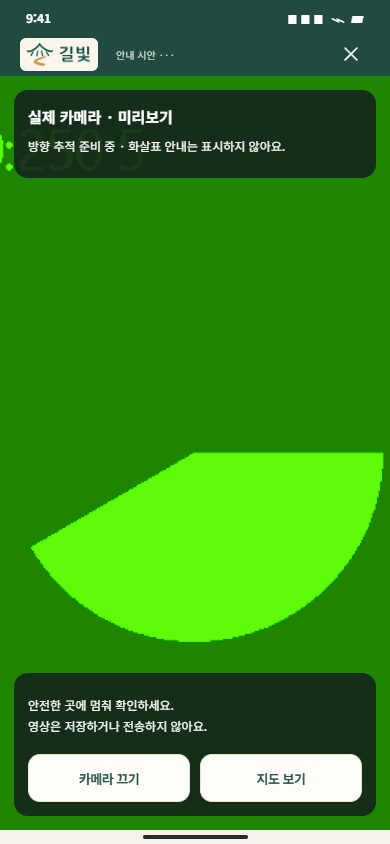
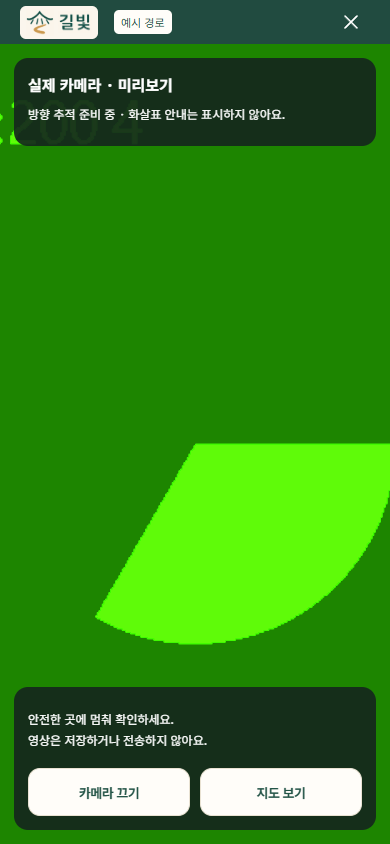
기본 배포를 앱 화면으로 전환하고 디자인 검토 레이아웃 분리

Changed region(s): [[0.0, 0.7393, 1.0, 1.0], [0.0, 0.0, 1.0, 0.2156], [0.0923, 0.5237, 1.0, 0.7393]]

diff --git a/src/main.tsx b/src/main.tsx
@@ -16,6 +16,7 @@ const places = [
 
 function App() {
  const [mode,setMode]=useState<'demo'|'live'>(new URLSearchParams(location.search).get('mode')==='live'?'live':'demo');
+ const review=new URLSearchParams(location.search).get('preview')==='1';
  const initial = new URLSearchParams(location.search).get('screen');
  const [screen,setScreen]=useState<Screen>(initial && initial in screenNames ? initial as Screen:'home');
  const [activeGuide,setActiveGuide]=useState<{place:typeof places[number];screen:'map'|'camera'|'recheck'}|null>(initial==='map'||initial==='camera'||initial==='recheck'?{place:places[0],screen:initial}:null);
@@ -48,14 +49,14 @@ function App() {
  function showNotice(text:string){setNotice(text);timers.current.push(setTimeout(()=>setNotice(''),2200));}
  function retry(){setChecking(true);timers.current.push(setTimeout(()=>{setChecking(false);go('camera');},900));}
  function switchMode(next:'demo'|'live') { const url=new URL(location.href);if(next==='live'){url.searchParams.set('mode','live');url.searchParams.delete('screen');}else{url.searchParams.delete('mode');url.searchParams.set('screen','home');setScreen('home');}history.replaceState(null,'',url);setMode(next); }
- if(mode==='live')return <LiveNavigation onDemo={()=>switchMode('demo')}/>;
+ if(mode==='live')return <LiveNavigation onDemo={()=>switchMode('demo')} review={review}/>;
 
- return <div className="studio">
+ return <div className={`studio ${review?'':'app-shell'}`}>
   <aside className="studio-intro"><span className="eyebrow">GILBIT / DESIGN STUDY 01</span><h1>낯선 길에도,<br/>마음 놓이는 한 걸음.</h1><p>한옥의 차분함을 담은<br/>나만의 도보 길잡이, 길빛.</p><div className="studio-rule"/><span className="studio-note">클릭하며 둘러보는 디자인 시안<br/>지도·경로는 예시이며 카메라는 선택해 켤 수 있어요.</span><div className="swatches"><i/><i/><i/><i/></div><span className="edition">HANJI · PINE · LIGHT</span></aside>
   <div className={`phone ${camera?'camera-phone':''}`}>
    <div className="status-bar" aria-hidden="true"><span>9:41</span><span className="status-icons">▮▮▮ <span>⌁</span> ▰</span></div>
-   {!navigating && <header className={`app-header ${screen==='home'?'home-header':''}`}>{screen==='home'?<button className="brand-menu" aria-label="시안 확인 메뉴" aria-expanded={menu} onClick={()=>setMenu(!menu)}><Brand/></button>:<button className="icon-button" aria-label="뒤로 가기" onClick={()=>go(screen==='search'?'home':screen==='route'?'search':'home')}><Icon name="back"/></button>}{screen!=='home'&&<span className="header-title">{screenNames[screen]}</span>}{screen==='home'?<button className="icon-button home-bell" aria-label="알림" onClick={()=>showNotice('새로운 알림이 없어요.')}><Icon name="bell" size={23}/></button>:<button className="sample-badge" aria-label="시안 확인 메뉴" aria-expanded={menu} onClick={()=>setMenu(!menu)}>디자인 시안 ···</button>}</header>}
-   {navigating && <div className="navigation-top"><span><Brand compact/> <button className="nav-demo" aria-label="시안 확인 메뉴" aria-expanded={menu} onClick={()=>setMenu(!menu)}>안내 시안 ···</button></span><button className="icon-button" aria-label="안내 화면 닫기" onClick={()=>go('home')}><Icon name="close"/></button></div>}
+   {!navigating && <header className={`app-header ${screen==='home'?'home-header':''}`}>{screen==='home'?<button className="brand-menu" aria-label={review?"시안 확인 메뉴":"길빛 홈"} aria-expanded={review?menu:undefined} onClick={()=>review?setMenu(!menu):go('home')}><Brand/></button>:<button className="icon-button" aria-label="뒤로 가기" onClick={()=>go(screen==='search'?'home':screen==='route'?'search':'home')}><Icon name="back"/></button>}{screen!=='home'&&<span className="header-title">{screenNames[screen]}</span>}{screen==='home'?<button className="icon-button home-bell" aria-label="알림" onClick={()=>showNotice('새로운 알림이 없어요.')}><Icon name="bell" size={23}/></button>:review?<button className="sample-badge" aria-label="시안 확인 메뉴" aria-expanded={menu} onClick={()=>setMenu(!menu)}>디자인 시안 ···</button>:<span className="example-label">예시 경로</span>}</header>}
+   {navigating && <div className="navigation-top"><span><Brand compact/> {review?<button className="nav-demo" aria-label="시안 확인 메뉴" aria-expanded={menu} onClick={()=>setMenu(!menu)}>안내 시안 ···</button>:<span className="example-label">예시 경로</span>}</span><button className="icon-button" aria-label="안내 화면 닫기" onClick={()=>go('home')}><Icon name="close"/></button></div>}
    <main ref={content} className={`app-content screen-${screen}`} key={screen}>
     {screen==='home' && <>
      <section className="home-hero"><Lattice/><Lattice right/><h2>어디로<br/>걸어갈까요<span>?</span></h2><form className="search-form" onSubmit={e=>{e.preventDefault();search(query);}}><button className="home-search-submit" aria-label="검색" type="submit"><Icon name="search" size={23}/></button><input aria-label="목적지 검색" placeholder="장소나 주소를 검색하세요" value={query} onChange={e=>setQuery(e.target.value)}/></form><Hanok/></section>
@@ -76,8 +77,8 @@ function App() {
    <div className="phone-bottom" aria-hidden="true"><span/></div>
   </div>
   <aside className="studio-controls"><span className="eyebrow">PROTOTYPE INDEX</span><h2>한 걸음씩,<br/>둘러보세요.</h2><nav aria-label="시안 화면 선택">{(Object.keys(screenNames) as Screen[]).map((s,i)=><button key={s} className={screen===s?'active':''} aria-current={screen===s?'page':undefined} onClick={()=>go(s)}><span>0{i+1}</span>{screenNames[s]}<Icon name="arrow" size={16}/></button>)}</nav><p>장소·지도·거리 사진은 예시입니다.<br/>카메라는 켜기 버튼을 누를 때만 권한을 요청해요.</p></aside>
-  <button ref={trigger} className="preview-toggle" aria-label="시안 확인 메뉴" aria-expanded={menu} onClick={()=>setMenu(!menu)}><Icon name="dots" size={19}/><span>시안 보기</span></button>
-  {menu&&<div className="preview-popover"><div className="popover-heading"><strong>시안 확인 메뉴</strong><button aria-label="시안 메뉴 닫기" className="icon-button" onClick={()=>{setMenu(false);trigger.current?.focus();}}><Icon name="close" size={19}/></button></div><p>실제 이동 없이 화면을 살펴보세요.</p>{(Object.keys(screenNames) as Screen[]).map((s,i)=><button key={s} onClick={()=>go(s)}><span>0{i+1}</span>{screenNames[s]}<Icon name="chevron" size={16}/></button>)}<label className="dark-control"><input type="checkbox" checked={dark} onChange={e=>setDark(e.target.checked)}/>카메라 어두운 배경 확인</label></div>}
+  {review&&<button ref={trigger} className="preview-toggle" aria-label="시안 확인 메뉴" aria-expanded={menu} onClick={()=>setMenu(!menu)}><Icon name="dots" size={19}/><span>시안 보기</span></button>}
+  {review&&menu&&<div className="preview-popover"><div className="popover-heading"><strong>시안 확인 메뉴</strong><button aria-label="시안 메뉴 닫기" className="icon-button" onClick={()=>{setMenu(false);trigger.current?.focus();}}><Icon name="close" size={19}/></button></div><p>실제 이동 없이 화면을 살펴보세요.</p>{(Object.keys(screenNames) as Screen[]).map((s,i)=><button key={s} onClick={()=>go(s)}><span>0{i+1}</span>{screenNames[s]}<Icon name="chevron" size={16}/></button>)}<label className="dark-control"><input type="checkbox" checked={dark} onChange={e=>setDark(e.target.checked)}/>카메라 어두운 배경 확인</label></div>}
   <dialog ref={dialog} onCancel={()=>setEnding(false)} onClick={e=>{if(e.target===e.currentTarget)setEnding(false);}}><div className="dialog-inner"><span className="dialog-icon"><Icon name="compass" size={28}/></span><h2>길 안내를 마칠까요?</h2><p>안내를 종료하고 처음으로 돌아가요.</p><button className="primary" onClick={()=>{setEnding(false);setActiveGuide(null);go('home');}}>안내 종료하기</button><button className="secondary" onClick={()=>setEnding(false)}>계속 안내받기</button></div></dialog>
  </div>;
 }

diff --git a/src/navigation/LiveNavigation.tsx b/src/navigation/LiveNavigation.tsx
@@ -6,8 +6,8 @@ import { findWalkingRoute, getUserPosition, navigationRequest, searchPlaces, typ
 import { WalkingMap } from './WalkingMap';
 
 type Stage='home'|'results'|'route'|'map';
-interface Props {onDemo:()=>void}
-export function LiveNavigation({onDemo}:Props) {
+interface Props {onDemo:()=>void;review?:boolean}
+export function LiveNavigation({onDemo,review=false}:Props) {
  const [stage,setStage]=useState<Stage>('home');
  const [query,setQuery]=useState('');
  const [places,setPlaces]=useState<Place[]>([]);
@@ -91,9 +91,9 @@ export function LiveNavigation({onDemo}:Props) {
  const locationPanel=<section className="live-location"><div className="location-label"><Icon name="locate" size={18}/><strong>출발 위치</strong></div><p>{position?`현재 위치를 확인했어요 · 오차 약 ${Math.round(position.accuracy)}m`:'길찾기를 시작하려면 현재 위치를 확인해 주세요.'}</p><button className="secondary" disabled={locating||routing} onClick={()=>void locate()}><Icon name="locate" size={19}/>{locating?'현재 위치 확인 중…':position?'현재 위치 다시 확인':'현재 위치 확인'}</button>{locationError&&<p className="inline-error" role="alert">{locationError}</p>}</section>;
  const setup=<>{configured===null&&!configError&&<p className="connection-note" role="status">검색 서비스 연결을 확인하고 있어요…</p>}{configured===false&&<div className="connection-note"><strong>실제 장소 검색을 준비 중이에요.</strong><p>지금은 디자인 시안으로 화면을 둘러볼 수 있어요.</p><button className="text-button" onClick={onDemo}>디자인 시안으로 돌아가기</button></div>}{configError&&<div className="connection-note" role="alert"><p>{configError}</p><button className="text-button" onClick={()=>setConfigAttempt(n=>n+1)}>연결 다시 확인</button></div>}</>;
 
- return <div className="studio live-studio"><aside className="studio-intro"><span className="eyebrow">GILBIT / WALKING ROUTE</span><h1>눈앞의 길을,<br/>실제 경로로.</h1><p>장소를 찾고 현재 위치에서<br/>걸어갈 경로를 확인하세요.</p><div className="studio-rule"/><span className="studio-note">현재 위치는 버튼을 눌렀을 때만 확인해요.<br/>경로는 저장하지 않아요.</span><button className="secondary return-demo" onClick={onDemo}>디자인 시안 보기</button></aside><div className="phone live-phone"><header className={`app-header ${stage==='home'?'home-header':''}`}>
+ return <div className={`studio live-studio ${review?'':'app-shell'}`}><aside className="studio-intro"><span className="eyebrow">GILBIT / WALKING ROUTE</span><h1>눈앞의 길을,<br/>실제 경로로.</h1><p>장소를 찾고 현재 위치에서<br/>걸어갈 경로를 확인하세요.</p><div className="studio-rule"/><span className="studio-note">현재 위치는 버튼을 눌렀을 때만 확인해요.<br/>경로는 저장하지 않아요.</span><button className="secondary return-demo" onClick={onDemo}>디자인 시안 보기</button></aside><div className="phone live-phone"><header className={`app-header ${stage==='home'?'home-header':''}`}>
   {stage==='home'?<Brand/>:<><button className="icon-button" aria-label="뒤로 가기" onClick={back}><Icon name="back"/></button><strong className="header-title">{stageTitle}</strong></>}
-  <button className="live-demo-exit" onClick={onDemo}>시안 보기</button>
+  <button className="live-demo-exit" onClick={onDemo}>{review?'시안 보기':'예시 화면'}</button>
  </header><main className={`app-content live-content live-${stage}`} ref={content}>
  {stage==='home'&&<><section className="home-hero"><Lattice/><Lattice right/><h2>어디로<br/>걸어갈까요<span>?</span></h2><form className="search-form" onSubmit={onSubmit}><button className="home-search-submit" type="submit" aria-label="실제 장소 검색" disabled={configured!==true}><Icon name="search" size={23}/></button><input aria-label="실제 목적지 검색" placeholder="장소나 주소를 검색하세요" value={query} maxLength={80} onChange={e=>setQuery(e.target.value)}/></form><Hanok/></section><div className="live-home-body">{setup}{error&&<p className="inline-error" role="alert">{error}</p>}<div className="section-heading"><h3>이런 곳을 찾아보세요</h3></div><div className="suggestions">{['도서관','시청','보건소'].map((q,i)=><button key={q} className="place-tile" disabled={configured!==true} onClick={()=>void submitSearch(q)}><Icon name={['book','building','health'][i]} size={25}/><strong>{q}</strong></button>)}</div>{locationPanel}<p className="live-privacy">위치를 확인하면 이 기기의 좌표를 가져와요.<br/>도보 경로를 찾을 때 출발·도착 위치가 TMAP에 전달돼요.</p></div></>}
  {stage==='results'&&<section className="padded"><form className="search-form" onSubmit={onSubmit}><button type="submit" aria-label="다시 검색"><Icon name="search" size={21}/></button><input aria-label="검색어" value={query} maxLength={80} onChange={e=>setQuery(e.target.value)}/><button type="button" aria-label="검색어 지우기" onClick={()=>{searchAbort.current?.abort();setSearching(false);setQuery('');setPlaces([]);setSearched(false);setError('');}}><Icon name="close" size={18}/></button></form><div className="section-heading live-results-heading"><h3>검색 결과 {searched&&<em>{places.length}</em>}</h3><span>관련도순</span></div><p className="sample-description">TMAP 장소 검색 · 거리는 직선 거리예요.</p>{searching&&<p role="status" className="connection-note">장소를 찾고 있어요…</p>}{error&&<div className="connection-note" role="alert"><p>{error}</p><button className="secondary" onClick={()=>void submitSearch()}>다시 검색</button></div>}<div className="search-results">{places.map(place=><button className="result-card" key={place.id} onClick={()=>choose(place)}><span className="result-icon"><Icon name="pin"/></span><div className="result-copy"><small>{place.category}</small><h3>{place.name}</h3><p>{place.address}</p>{position&&<span>직선 {formatDistance(distanceBetween(position,place))}</span>}</div><Icon name="chevron" size={19}/></button>)}</div>{searched&&!places.length&&!error&&<div className="empty-state"><div className="empty-lattice"><Motif kind="lattice" size={54}/></div><h3>일치하는 장소가 없어요</h3><p>지역명과 장소명을 함께 입력해 보세요.</p></div>}</section>}

diff --git a/tests/browser/app-shell.spec.ts b/tests/browser/app-shell.spec.ts
@@ -1,0 +1,15 @@
+import {test,expect} from '@playwright/test';
+for(const width of [360,430,1440]){
+ test(`${width}px 기본 주소는 검토용 프레임 없이 앱만 표시한다`,async({page})=>{
+  await page.setViewportSize({width,height:900});await page.goto('/');
+  await expect(page.locator('.studio-intro')).not.toBeVisible();await expect(page.locator('.studio-controls')).not.toBeVisible();await expect(page.locator('.status-bar')).not.toBeVisible();await expect(page.locator('.phone-bottom')).not.toBeVisible();await expect(page.getByRole('button',{name:'시안 확인 메뉴'})).toHaveCount(0);
+  const phone=page.locator('.phone');expect(await phone.evaluate(e=>getComputedStyle(e).borderTopWidth)).toBe('0px');expect(await phone.evaluate(e=>getComputedStyle(e).borderRadius)).toBe('0px');
+  const bounds=await phone.boundingBox();expect(bounds?.height).toBe(900);expect(bounds?.width).toBe(Math.min(width,480));
+  await page.screenshot({path:`test-results/app-shell-${width}.png`});
+  await page.goto('/?screen=map');await expect(page.getByText('예시 경로',{exact:true})).toBeVisible();await expect(page.getByRole('button',{name:'안내 화면 닫기'})).toBeVisible();
+  await page.goto('/?mode=live');await expect(page.locator('.studio-intro')).not.toBeVisible();await expect(page.getByRole('button',{name:'예시 화면',exact:true})).toBeVisible();
+ });
+}
+test('검토용 화면은 preview=1에서만 표시한다',async({page})=>{
+ await page.setViewportSize({width:1440,height:1000});await page.goto('/?preview=1');await expect(page.locator('.studio-intro')).toBeVisible();await expect(page.locator('.studio-controls')).toBeVisible();await expect(page.locator('.status-bar')).toBeVisible();await page.getByRole('button',{name:'시안 확인 메뉴'}).first().click();await expect(page.locator('.preview-popover')).toBeVisible();
+});

diff --git a/src/style.css b/src/style.css
@@ -53,3 +53,12 @@ button:focus-visible,a:focus-visible,input:focus-visible{outline-color:var(--tea
 .camera-permission{background:var(--sheet);color:var(--ink);padding:20px;border-radius:16px;flex:none}.camera-permission h2{font-size:18px;line-height:1.6}.camera-permission p{margin:12px 0 18px}.camera-permission .secondary{margin-top:10px}
 .real-camera-controls{display:grid;grid-template-columns:1fr 1fr;gap:10px}.real-camera-controls p{grid-column:1/-1}.real-camera-controls .secondary{font-size:13px;color:var(--pine);min-height:48px}
 .camera-screen:has(.real-camera)>.turn-card,.camera-screen:has(.real-camera)>.direction-arrow,.camera-screen:has(.real-camera)>.camera-bottom{display:none}
+
+/* Default deployment is the app; ?preview=1 opts into the design review shell. */
+.studio.app-shell{height:100dvh;min-height:100dvh;padding:0;gap:0;align-items:stretch;background:var(--paper)}
+.app-shell>.studio-intro,.app-shell>.studio-controls,.app-shell .status-bar,.app-shell .phone-bottom{display:none}
+.app-shell>.phone{width:100%;max-width:480px;height:100dvh;min-height:0;border:0;border-radius:0;box-shadow:none;margin:0 auto;padding:env(safe-area-inset-top) 0 env(safe-area-inset-bottom)}
+.app-shell .app-header{flex-shrink:0}.app-shell .home-header{height:64px}
+.app-shell .example-label{font-size:11px;font-weight:400;color:var(--muted);margin-left:10px;white-space:nowrap}
+.app-shell .navigation-top .example-label{display:inline-block;padding:4px 7px;border-radius:5px;background:var(--sheet);color:var(--pine)}
+.app-shell .home-hero,.app-shell .recent-section,.app-shell .location-section,.app-shell .live-entry,.app-shell .ongoing-guide,.app-shell .home-footer{flex-shrink:0}

diff --git a/docs/issues/2026-11-06-app-shell.md b/docs/issues/2026-11-06-app-shell.md
@@ -1,0 +1,13 @@
+# 배포 화면과 디자인 검토 화면 분리
+
+## 문제
+배포된 PC 화면에서 휴대폰 목업 테두리·고정 시간·양쪽 설명·시안 메뉴까지 보여 앱이 아닌 디자인 발표 화면처럼 보였다.
+
+## 원인
+디자인 시안 제작 단계의 studio 레이아웃을 배포 기본 화면으로 그대로 사용했다. 기능 연결과 배포 준비 과정에서 실제 사용자용 외곽 화면 전환이 누락됐다.
+
+## 해결방법
+기본은 앱 레이아웃으로 표시한다. 휴대폰 목업·가짜 상태 표시·하단 제스처 막대·설명판·검토 메뉴를 숨기고 실제 화면 높이와 safe-area에 맞춘다. 넓은 화면에서는 최대 480px 앱 영역을 중앙에 표시한다. 검토 도구는 ?preview=1일 때만 제공한다. 기본 화면에서도 가상 데이터가 실제 안내로 보이지 않게 예시 경로 표시를 유지한다. 실제 검색 모드에도 같은 외곽 규칙을 적용한다.
+
+## 결과
+빌드·브라우저 테스트 30개 통과 후 같은 주소에 재배포했고 실제 배포 PC/모바일 크기에서 앱 레이아웃과 API HTTP200을 확인했다. 실제 경로·AR 개발 완료를 의미하지 않는다.

diff --git a/docs/deployment.md b/docs/deployment.md
@@ -5,7 +5,7 @@
 - Vercel 프로젝트 gilbit, 팀 sunyoungs-projects-c61fca90, Hobby.
 - 첫 배포는 Vercel 정책에 따라 사용자 승인 후 Production으로 진행했다. 기능 검증용 배포이며 TMAP 키는 설정하지 않는다.
 - 주소: https://gilbit.vercel.app
-- 최종 배포 ID: dpl_Ey3PZhc2pmhz2AhRKeB3inVT1sWr
+- 최종 배포 ID: dpl_C7PDHp94AeLUqS9gek1SgiK8nUVU
 - React/Vite 정적 화면과 /api/navigation 함수를 함께 빌드한다.
 - Node.js는 package.json의 22 이상 25 미만 조건에 따라 사용한다.
 - 로컬 환경 파일·에이전트 설정·검증 캡처·문서는 .vercelignore로 CLI 업로드에서 제외한다.
@@ -26,3 +26,7 @@
 ## 범위 구분
 
 휴대폰 실기기 검증은 사용자가 실제 기기에서 확인해야 한다. 자동화 결과와 구분해 기록한다. 아직 실제 TMAP 검색·실시간 경로 추적·방향 센서·AR·음성·백그라운드 안내는 확인하지 않았다. 페이지 새로고침이나 탭 종료 시 시안 안내 상태는 유지되지 않는다.
+
+## 앱 표시 방식
+
+기본 주소는 앱만 표시한다. 디자인 검토 화면은 https://gilbit.vercel.app/?preview=1 에서 연다.

diff --git a/README.md b/README.md
@@ -14,7 +14,7 @@ Node.js 22 또는 24와 Chrome을 사용합니다. 터미널에 표시되는 로
 ## 둘러보기
 
 홈 → 검색 결과 → 장소 선택 → 경로 확인 → 지도 안내 → 카메라 안내.
-상단 ‘디자인 시안’ 또는 ‘안내 시안’ 메뉴에서 방향 재확인, 도착, 어두운 카메라 배경도 확인할 수 있습니다. 넓은 화면에서는 오른쪽 화면 목록을 이용할 수 있습니다.
+기본 주소는 검토용 테두리·설명판 없이 앱 화면만 표시합니다. `?preview=1`에서 디자인 검토 도구를 열면 방향 재확인, 도착, 어두운 카메라 배경도 확인할 수 있습니다. 검토 모드의 넓은 화면에서는 오른쪽 화면 목록을 이용할 수 있습니다.
 
 시안 모드의 지도·주소·이동 정보는 가상 데이터입니다. 이 모드는 위치 권한을 요청하지 않으며, 카메라는 **실제 카메라 켜기**를 누를 때만 권한을 요청합니다. 만족도는 메모리에만 유지합니다.
 

diff --git a/DESIGN.md b/DESIGN.md
@@ -33,5 +33,5 @@
 
 - 검색 문구는 목적지 찾기 중심의 기존 쉬운 표현을 유지합니다.
 - 경사·그늘·걸음 수는 데이터가 없으므로 표시하지 않습니다.
-- 데스크톱은 모바일 화면과 시안 목록을 보는 검토용 구성입니다. 원본의 실서비스용 420px 데스크톱 지도 도크는 이번 모바일 시안 범위에 포함하지 않습니다.
+- 기본 배포는 앱 화면만 표시합니다. 모바일은 뷰포트 전체 높이, PC는 최대 480px 앱 영역을 중앙에 표시합니다. 목업 프레임과 검토 도구는 `?preview=1`에 한해 제공합니다.
 - 기본 디자인 시안은 위치·카메라 권한을 자동 요청하지 않습니다. 실제 검색 모드는 별도 서버 연결을 사용하고, 카메라 화면의 실제 카메라 켜기 버튼은 사용자 선택 시 카메라 권한을 요청합니다. 실제 미리보기에는 시안의 회전·거리 정보를 표시하지 않습니다.

diff --git a/docs/validation-2026-11-06-app-shell.md b/docs/validation-2026-11-06-app-shell.md
@@ -1,0 +1,10 @@
+# 앱 기본 화면 검증
+
+- npm run build 통과, 브라우저 테스트 30개 통과.
+- 360·430·1440px 기본 주소의 검토 설명판·가짜 상태표시·프레임·시안 메뉴 없음 확인.
+- 기본 앱 영역의 테두리/모서리 0, 화면 높이 900px 및 최대 너비 480px 확인.
+- preview=1에서 기존 검토 도구와 메뉴 접근 확인.
+- 안내 전환·종료·복귀·실제 검색 모의 응답·카메라 관련 회귀 검증 통과.
+- https://gilbit.vercel.app 원격 배포에서 PC와 390px 앱 화면 및 API HTTP200 확인. 캡처는 docs/previews/gilbit-app-desktop.png와 gilbit-app-mobile.png.
+- 최종 배포: dpl_C7PDHp94AeLUqS9gek1SgiK8nUVU (READY).
+- 실제 기기·실제 TMAP·공간 추적 기능은 이번 UI 수정 검증 범위가 아니다.

diff --git a/CHANGELOG.md b/CHANGELOG.md
@@ -69,3 +69,9 @@
 - 사용자 승인 후 https://gilbit.vercel.app 에 배포.
 - 배포 서버 ESM 상대 경로 확장자 오류 수정 후 재배포.
 - 실제 배포 HTTP 응답·준비 안내·가상 카메라·안내 상태 유지 확인. 휴대폰 실기기는 후속 확인.
+
+## 2026-11-06 앱 기본 화면 전환
+
+- 기본 배포에서 휴대폰 목업·검토 설명판·시안 메뉴를 제거하고 앱 영역만 표시.
+- 디자인 검토 도구는 ?preview=1로 분리, 실제 검색에도 동일 레이아웃 적용.
+- 가상 안내의 예시 경로 표시는 유지.
